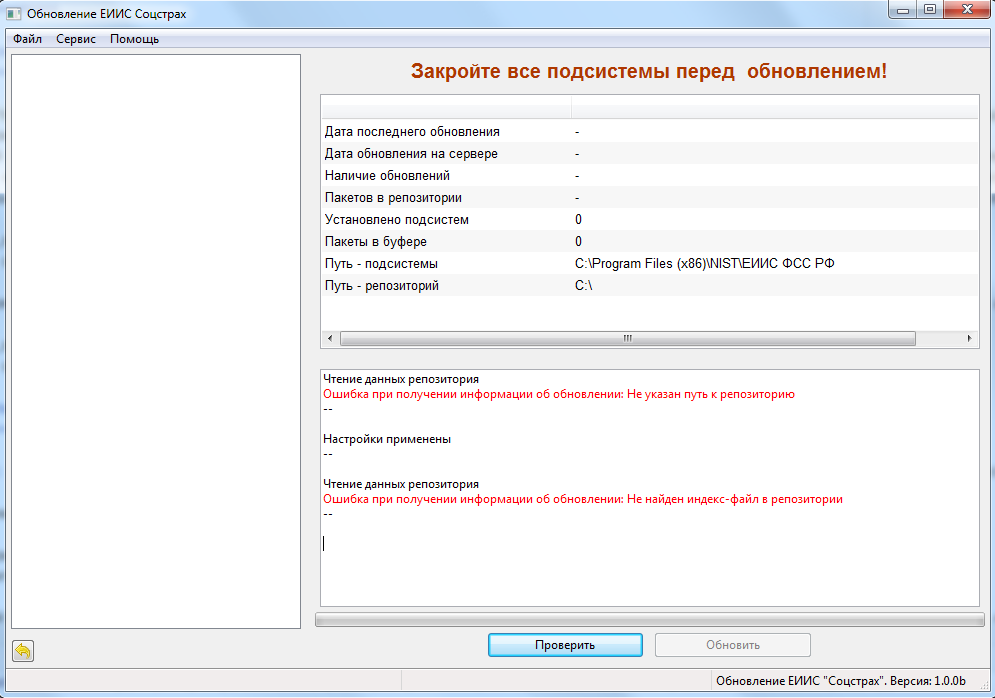
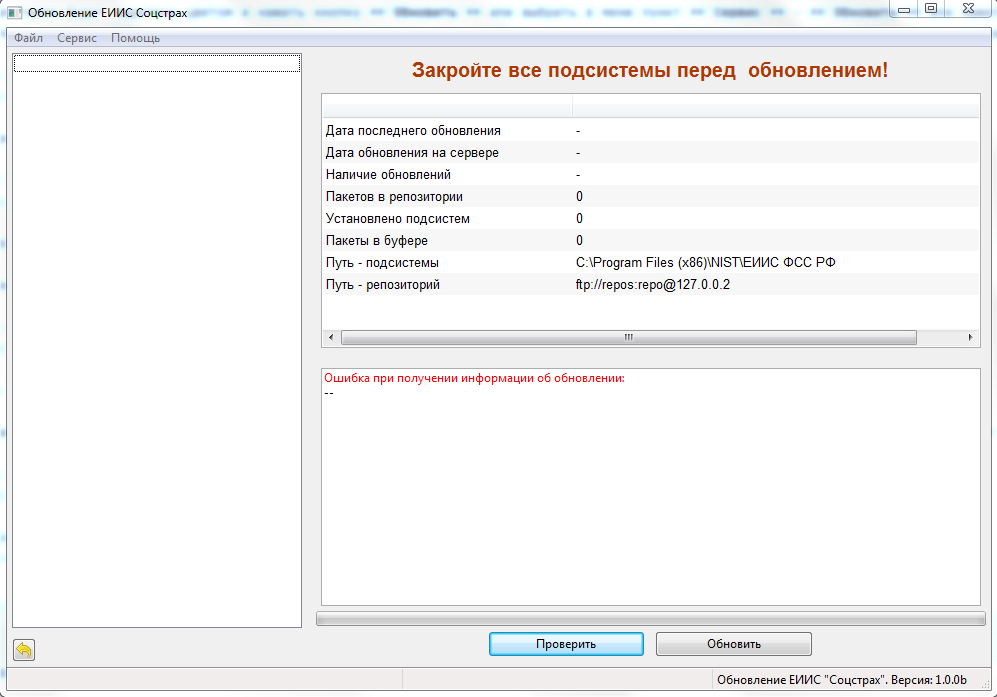
Дополнена инструкция

diff --git a/docs/source/workflow.rst b/docs/source/workflow.rst
@@ -1,5 +1,3 @@
-Программа **Обновление ЕИИС 'Соцстрах'. Клиент** предназначена для обновления подсистем *ЕИИС 'Соцстрах'* на рабочих местах сотрудников.
-Программа является клиентом, которая читает данные удаленного репозитория с пакетами, определяет наличие обновлений и производит обновление, установку и удаление подсистем.
 
 Термины
 =======
@@ -8,26 +6,50 @@
 
 :Пакеты: Все папки в корне репозитория считаются *пакетами*, содержащие файлы и папки подсистем. Файлы в корне репозитория игнорируются.
 
+_____________
+
 Первый запуск
 =============
 
-После первого запуска клиента необходимо проверить и установить при отсутствии адрес репозитория, где располагаются подсистемы `ЕИИС Соцстрах`.
+После первого запуска клиента необходимо установить `путь к репозиторию пакетов`_, где располагаются подсистемы **ЕИИС Соцстрах**.
 
-Затем проверить наличие обновлений в репозитории - кнопка `ПРОВЕРИТЬ`
+Затем проверить наличие обновлений в репозитории - кнопка `ПРОВЕРИТЬ`.
 При успешной попытке соединения с сервером в левой панели отобразятся доступные пакеты в репозитории. Пакеты, которых нет на клиенткой машине будут подкрашены *светло-синим* цветом, обновленные пакеты *светло-зеленым*.
 Если пакета нет в репозитории, но он присутствует на клиентской машине по пути установки подсистем, он будет подкрашен *светло-красным* цветом.
 Если по указанному пути установки подсистем уже имеются какие-то из пакетов, программа отметит их галочками. В правой верхней панели отобразятся имеющиеся статистические данные.
 
-.. image:: _static/images/first_run.png
+.. figure:: _static/images/first_run.png
     :align: center
 
-.. image:: _static/images/first_run_2.png
+    *При первом запуске информации о пакетах нет. Требуется указать путь к репозиторию в настройках.*
+
+.. figure:: _static/images/update_process_new.png
     :align: center
+
+    *После указания пути к репозиторию и проверки обновлений.*
+    *Существующие пакеты в папке установки помечены галками и зеленым цветом, отсутствующие в репозитории, но имеющиеся в папке установки - красным.*
+    *Остальные пакеты момечены как новые.*
+
+.. figure:: _static/images/update_process_changes.png
+    :align: center
+
+    *При следующем обновлении обновленные и удаленные в репозитории пакеты будут помечены определенным цветом.*
+
+
+.. figure:: _static/images/first_run_2.png
+    :align: center
+
+    *Обновлений нет в репозитории.*
+
 
 При неудачном подключении к серверу, в нижней левой панели отбразится соответствующее сообщение. В таком случае необходимо обратиться к администраторам.
 
-.. image:: _static/images/first_run_error.png
+.. figure:: _static/images/first_run_error.png
     :align: center
+
+    *Ошибки будут указаны в панели вывода красным цветом*
+
+___________________
 
 Управление пакетами
 ===================
@@ -35,37 +57,54 @@
 .. attention::
     **Перед началом работы с программой убедитесь, что Вы закрыли все свои подсистемы, во избежания возникновения ошибок в процессе установки.**
 
-Для управлением пакетами требуется следующая очередность шагов:
+Для управления пакетами требуется следующая очередность шагов:
 
     #. проверить наличие обновлений в репозитории;
     #. обновить / установить / удалить требуемые пакеты;
 
 *Проверка обновлений*
-    Для проверки обновлений нажмите экранную кнопку **`Проверить`** или пункт в меню - **`Сервис`** - **`Проверить обновления`** или клавишу <``F2``>.
+    Для проверки обновлений нажмите экранную кнопку **Проверить** или пункт в меню - **Сервис** - **Проверить обновления** или клавишу <``F2``>.
     Запустится процесс проверки, о наличии обновлений будет указано в правой верхней панели (*Информационная панель*), измененные или удаленные пакеты будут подсвечены соответствующим цветом.
 
+*Удаление пакетов*
+    Для удаления снимите галки с удаляемых пакетов и нажмите кнопку **Обновить** или выбрать в меню пункт **Сервис** - **Обновить** или нажать клавишу <``F3``>.
+    Для удаления пакетов предварительная проверка на наличие обновлений не требуется.
+
 *Процесс обновления/установки*
-    Для установки, обновления или удаления пакетов, необходимо выбрать в левой панели (*Пакеты подсистем*) необходимые пакеты,
-    которые также будут выделены цветом и нажать кнопку **`Обновить`** или выбрать в меню пункт **`Сервис`** - **`Обновить`** или нажать клавишу <``F3``>.
-    Запустится процесс обмена данными с репозиторием и загрузка новых файлов, при их наличии. Информация о процессе работы будет отображаться в правой нижней панели (*Панель сообщений*) и в прогресс-баре.
+    Для установки, обновления, необходимо выбрать в левой панели (*Пакеты подсистем*) необходимые пакеты,
+    которые также будут выделены цветом и нажать кнопку **Обновить** или выбрать в меню пункт **Сервис** - **Обновить** или нажать клавишу <``F3``>.
+    Запустится процесс обмена данными с репозиторием и загрузка новых файлов, при их наличии.
+    Информация о процессе работы будет отображаться в правой нижней панели (*Панель сообщений*) и в прогресс-баре.
 
-.. image:: _static/images/process_start.png
+.. figure:: _static/images/process_start.png
     :align: center
 
-.. image:: _static/images/update_process.png
+    *Выбранные пакеты выделяются соответствующим цветом*
+
+.. figure:: _static/images/update_process.png
     :align: center
+
+    *Процесс удаления и загрузки пакетов*
 
 При возникновении ошибки в панели сообщения появится соответствующее сообщение красными буквами:
 
-.. image:: _static/images/process_error.png
+.. figure:: _static/images/process_error.png
     :align: center
+
+    *Сообщение об ошибке*
+
+В случае возникновения ошибки при установке пакетов, проверьте. не запущены ли у Вас обновляемые подсистемы.
 
 В подобных случаях лучше связаться с администраторами за консультацией
 
 Об окончании процесса программа сообщит в панели сообщений. Признак окончания процесса обновления - сообщение **Обновление завершено** и полностью заполненный прогресс-бар:
 
-.. image:: _static/images/process_success.png
+.. figure:: _static/images/process_success.png
     :align: center
+
+    *Удачное завершение*
+
+______________
 
 Меню программы
 ==============
@@ -107,31 +146,37 @@
 Сервис::Настройки
 ~~~~~~~~~~~~~~~~~
 
-.. image:: _static/images/settings.png
+.. figure:: _static/images/settings.png
     :align: center
 
+    *Настройки*
+
 **Путь установки подсистем**
-    Указывается путь на диске, куда будут установлены подсистемы ЕИИС на ПК пользователя. Заполняется автоматически при выборе соответствующего пункта (см. ниже)
+    Указывается путь на диске, куда будут установлены подсистемы ЕИИС на ПК пользователя. Заполняется автоматически при выборе соответствующего пункта (см. следующий пункт).
+    Установка доступна в общую папку **Program Files** при наличии соответствующих прав, или в профиль пользователя.
 
 **Устанавливать в профиль пользователя**
-    Если выбрано, меняет путь установки подсистем в папку профиля пользователя. Может быть полезным, если у пользователя нет прав на установку в `Program Files`
+    Если выбрано, меняет путь установки подсистем в папку профиля пользователя. Может быть полезным, если у пользователя нет прав на установку в **Program Files**
 
 **Путь к репозиторию** [*]_
-    Указывает путь к репозиторию пакетов. Обязательный параметр. По-умолчанию задан FTP-сервер филиала №2. Может быть задан как ftp-серверу, сетевой или локальной папке. Например:
-        `ftp://ftp.server.name/repo/path`
+    Указывает _`путь к репозиторию пакетов`. Может быть задан как путь к ftp-серверу, сетевой или локальной папке. Например: ::
 
-        `ftp://user:pass@ftp.server.name/repo/path`
-
-        `ftp://10.66.0.125`
-
-        `\\\\10.66.0.125\\repo/path`
-
-        `\\\\server_name\\repo\\path`
-
-        `С:\\path\\to\\repo`
+        ftp://server.name/repo/path
+        ftp://user:pass@server/repo/path
+        ftp://10.66.0.125
+        \\10.66.0.125\repo/path
+        \\server_name\repo\path
+        С:\path\to\repo
 
 **Количество потоков загрузки**
     Для ускорения загрузки множества файлов можно увеличить количество потоков. Полезно для сетевого репозитория. Подбирается опытным путем. Рекомендуется 2-3. (По-умолчанию 2)
+
+**Обновлять все ярлыки после обновления**
+    Обновляет ярлыки на подсистемы после каждого обновления.
+
+**Ярлыки в отдельной папке на рабочем столе**
+    При выбранной опции ярлыки создаются в отдельной папке на рабочем столе *ЕИИС Соцстрах*.
+    При сохранении настроек ярлыки переносятся в.. или из.. папки в соответствии снастройками.
 
 **Кодировка FTP-сервера**
     Установка кодировки при работе с FTP-сервером. По-умолчанию UTF-8
@@ -148,4 +193,5 @@
 ____________________________
 
 .. [*] обязательный параметр
+
 

diff --git a/docs/source/index.rst b/docs/source/index.rst
@@ -7,9 +7,10 @@
 Обновление ЕИИС Соцстрах. Клиент. Документация
 **********************************************
 
-Установка, обновление и удаление пакетов подсистем `ЕИИС 'Соцстрах'` и др.
+.. topic:: *Все что требуется - проверить наличие обновлений, выбрать пакеты и нажать `обновить`*
 
-    Все что требуется - проверить наличие обновлений, выбрать пакеты и нажать `обновить`
+    Программа **Обновление ЕИИС 'Соцстрах'. Клиент** предназначена для обновления подсистем *ЕИИС 'Соцстрах'* на рабочих местах сотрудников.
+    Программа является клиентом, которая читает данные удаленного репозитория с пакетами, определяет наличие обновлений и производит обновление, установку или удаление подсистем.
 
 .. toctree::
     :maxdepth: 2
